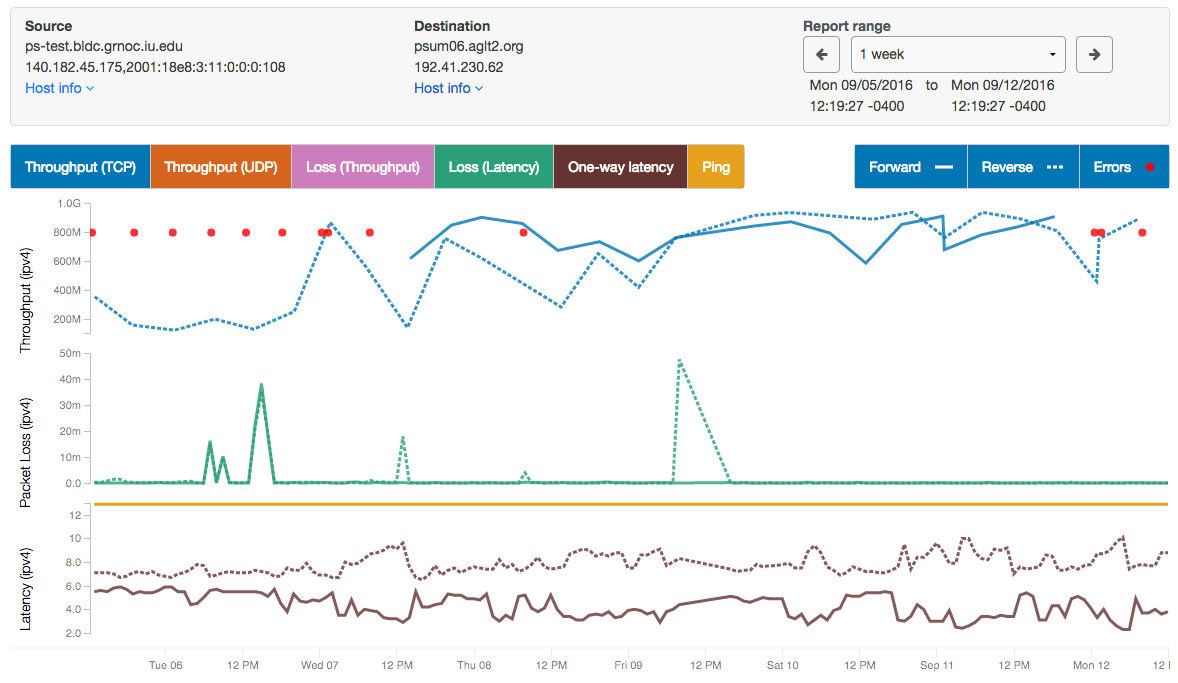
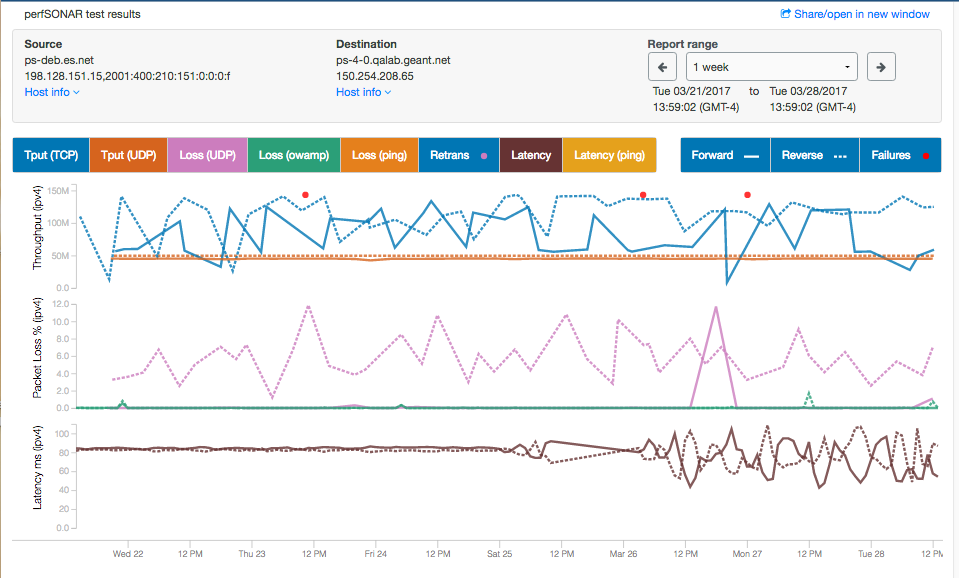
#54 Updated using_graphs.rst and its images

diff --git a/using_graphs.rst b/using_graphs.rst
@@ -2,40 +2,53 @@
 Test Results Graphs
 *******************
 
-Plots of perfSONAR results are generated by selecting "Throughput/Latency Graphs" on the Toolkit web interface and clicking
-on a hostname, or by clicking on a box in the perfSONAR dashboard.
+Plots of perfSONAR test results can be viewed by selecting "Details" on the Toolkit web interface homepage
+or by clicking on a square in a perfSONAR MaDDash dashboard grid.
 
-A sample perfSONAR data plot can be seen here.
+A sample perfSONAR data plot can be seen here:
 
 .. image:: images/using_graphs_sample_plot.png
 
 Things to notice on this plot include the following:
- * The plot show bi-directional throughput, latency, and loss data all on the same plot.
- * Scroll in/out by zooming in/out with your mouse wheel or touchpad.
- * You can quickly switch between 1 day, 3 day, 1 week, 1 month, and 1 year plots.
- * You can move back/forth through time by clicking the left and right arrows.
 
- .. image:: images/using_graphs_date_selector.png
+ * Bi-directional throughput, loss, and latency data are all shown on the same plot. Line colors and styles match the buttons above the graphs.
+ * You can zoom in/out (change the time period) by scrolling with your mouse wheel or touchpad.
+ * You can quickly switch between 1 day, 3 day, 1 week, 1 month, and 1 year plots using the Report Range selector.
+ * You can move back/forth through time by clicking the left and right arrows next to the Report Range.
 
- * Clicking on the colored boxes above the chart allow you to show and hide that information on the chart. For example, on this chart, test results in the forward direction have been disabled, and only reverse results are displayed. This is indicated by the background of the "Forward" legend turning grey.
-
-.. image:: images/using_graphs_forward_disabled.png
-
-Detailed Host Info
- * More host details can be displayed by clicking "Host info" at the top for both endpoints
- * NIC speed and MTU
- * Historical traceroute data for that path, if it is being collected
-
-.. image:: images/using_graphs_detailed_host_info.png
+.. image:: images/using_graphs_date_selector.png
 
 Some other features include:
 
- * You can hover above any events on the graph to get more details
+ * Clicking on the colored boxes above the chart toggles showing and hiding that information. Note that the vertical axis scale will adjust automatically to what is shown. For example, on the chart below, test results in the reverse direction have been disabled, and only forward results are displayed. This is indicated by the background of the "Reverse" legend turning grey. 
+ * When moving your cursor within the plot window, an overlay will display values at the crosshair. The arrows indicate whether values are for the forward or reverse direction. The protocol (UDP/TCP) or one-way vs round-trip (owamp/ping) is given in parentheses, while the tool used for the test is given in square brackets.  ("Bwctl/" in the tool name indicates that the test is in backwards-compatibility mode with a PerfSonar 3.5 host.)
+ * You can place the crosshair over a red dot (which indicates a test failure) to see the error text.
 
- .. image:: images/using_graphs_tooltip.png
+.. image:: images/using_graphs_reverse_disabled_tooltip.png
 
- * You can click on a red dot (which indicate test errors) to see the error text
+Additionally (as shown in the next image): 
 
- .. image:: images/using_graphs_error_message.png
+ * You can click to freeze the crosshair and then select text for copy/paste within the overlay box or use the - or + symbols to open or close different sections. Click again outside the box to unfreeze. Use the x or keep the mouse outside the plot area to make the overlay disappear. 
+
+ * Hover over a pink dot to see the number of retransmits.
+
+.. image:: images/using_graphs_retransmits.png
+
+Things to note:
+
+ * When multiple tests of the same type are run (eg, using different tools), there will be more than one curve of the same color and some may coincide. Each test will show up in the details overlay, as well. Turning off some of the lines in the plot may change the scale and allow you to see things more easily. 
+
+ * The numbers in the overlay box are the "last known values." One might expect that if there is no value for a test or quatity, such as retransmits, at the crosshair, no value would be shown, but instead, the last known value is shown. For example, at a point in the graph, there may be two distinguishable "-> Throughput (TCP)" values in the overlay box, but only one line. If you mouse back and forth, you'll see that one of the values is not changing. This indicates that that particular test ended some time ago and the value being displayed is its ending value. 
 
 
+The "Share/open in a new window" link at the top right is most useful when the graph is not on a page by itself. Click to open the graph in a new window, or right click and choose "Copy Link Address" to get a url for the graph that can be emailed or saved.
+
+Host details that can be displayed by clicking "Host info" under either endpoint:
+
+ * NIC speed (Capacity) and MTU are listed, if available
+ * A link to historical traceroute data for that path is shown, if it is being collected
+
+.. image:: images/using_graphs_detailed_host_info.png
+
+
+ 
